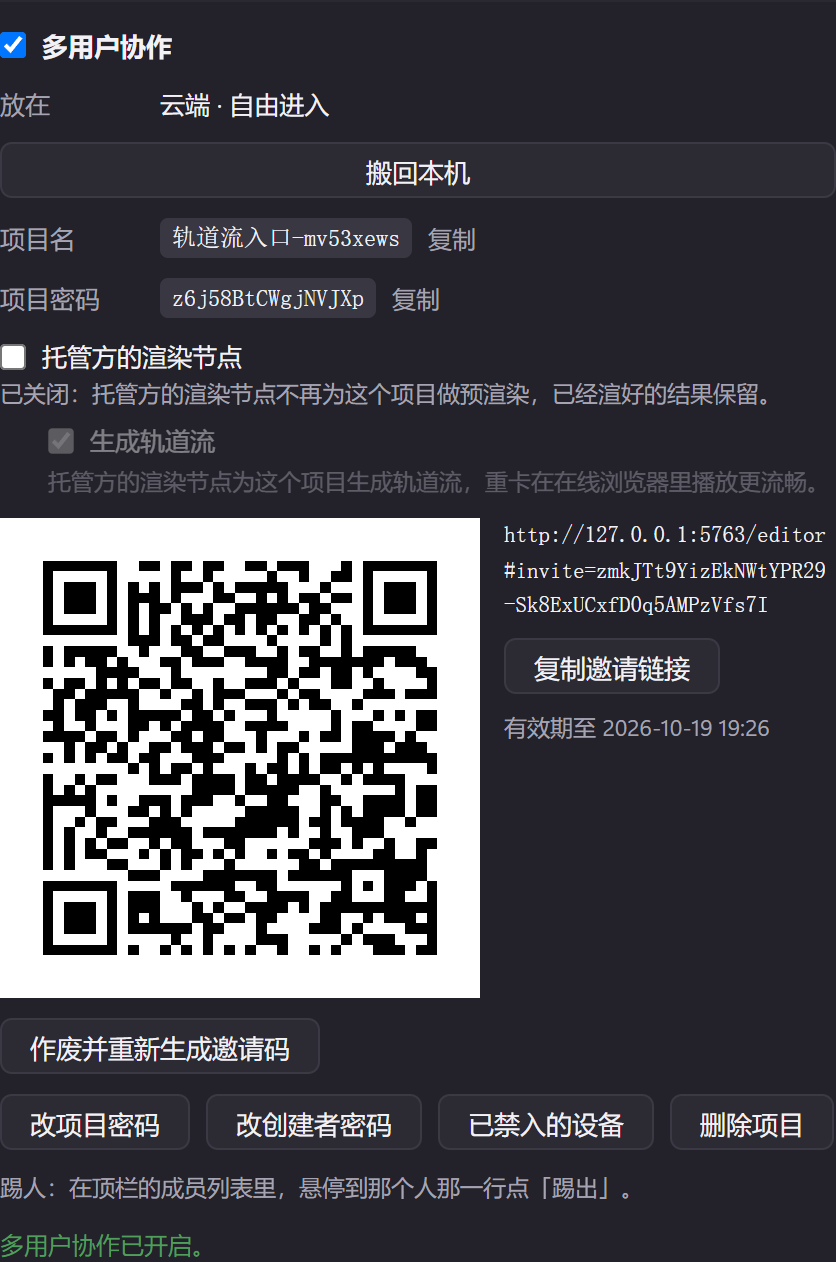
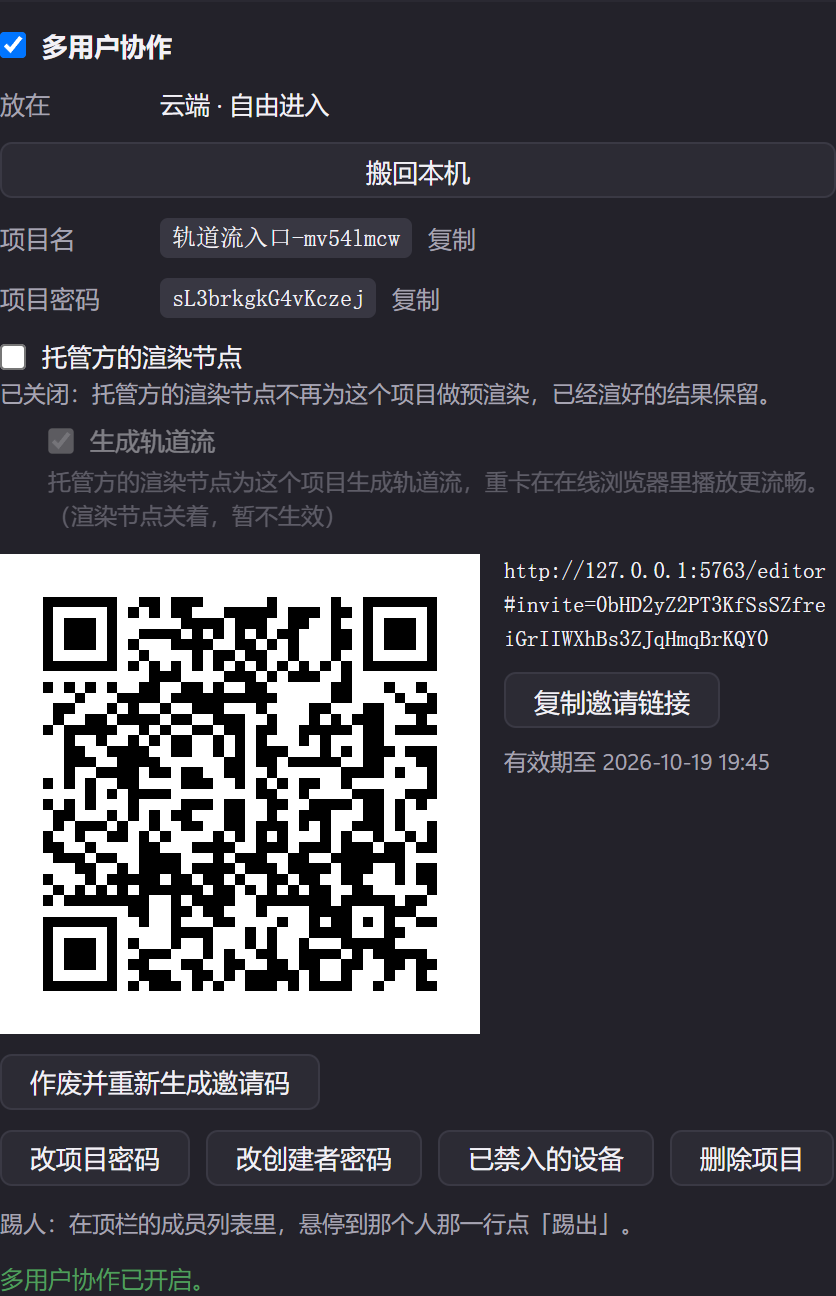
轨道流缺省改成关(用户 2026-10-12 定):文档服务只在显式 true 时算开,文案、单测、探针、契约、截图跟着改

diff --git a/src/editor/sync/hostedServices.ts b/src/editor/sync/hostedServices.ts
@@ -8,7 +8,7 @@
  *   `HOSTED_SERVICE_TEXT` 各加一项就多一行。
  *
  * - 渲染节点那一行下面缩进多一行子选项「生成轨道流」（契约 `hosted-render-contract.md` 第 3.1 节）：成员列表里 `hosted.render.streams`
- *   （布尔，文档服务报了才出现；旧托管端不报，这一行就不显示），记录里没有算开；渲染节点那一行关着时置灰、不可点。
+ *   （布尔，文档服务报了才出现；旧托管端不报，这一行就不显示），记录里没有算关（2026-10-12 用户定：在线浏览器暂停时不靠渲染节点也能看任意一帧，云端缺省不产轨道流，省服务器资源）；渲染节点那一行关着时置灰、不可点。
  *   子选项按「服务名 + 选项名」渲染，文案在 `HOSTED_OPTION_TEXT`。
  *
  * - 代成员进项目的服务连接（云端 Agent）不另起一行：归在那位成员的行里，`conns` 里那一项带 `service: 'agent'`，界面在这位成员下
@@ -24,7 +24,7 @@ export type HostedServiceName = "render" | "agent";
 export interface HostedServiceState {
   available: boolean;
   enabled: boolean;
-  /** 渲染节点的子选项「生成轨道流」：文档服务报了才有（旧托管端没有）；缺省开由文档服务算好再报 */
+  /** 渲染节点的子选项「生成轨道流」：文档服务报了才有（旧托管端没有）；缺省关由文档服务算好再报（记录里没有这一项算关，只有显式为 true 才算开） */
   streams?: boolean;
 }
 
@@ -81,7 +81,7 @@ export interface HostedOptionText {
 export const HOSTED_OPTION_TEXT: Record<string, HostedOptionText> = {
   "render.streams": {
     label: "生成轨道流",
-    hint: (enabled) => (enabled ? "托管方的渲染节点为这个项目生成轨道流，重卡在在线浏览器里播放更流畅。" : "已关闭：托管方的渲染节点只为这个项目生成快照，不生成轨道流；已经生成的保留。"),
+    hint: (enabled) => (enabled ? "托管方的渲染节点为这个项目生成轨道流，重卡在在线浏览器里播放更流畅。" : "没有打开：托管方的渲染节点只为这个项目生成快照。打开后还会生成轨道流，重卡在在线浏览器里播放更流畅，会多用云端的渲染时间。"),
     changed: (enabled) => (enabled ? "" : "创建者关闭了轨道流，托管方的渲染节点不再为这个项目生成轨道流。"),
     confirm: (enabled) => (enabled ? "打开后，托管方的渲染节点会为这个项目生成轨道流。" : "关闭后，托管方的渲染节点不再为这个项目生成轨道流，已经生成的保留。"),
   },

diff --git a/src/editor/sync/HostedServiceRows.tsx b/src/editor/sync/HostedServiceRows.tsx
@@ -61,6 +61,7 @@ export function HostedServiceRows({ where, hosted, creator, busy = false, onTogg
               </label>
               <div className="pc-sync-hint" data-pc={`collab-hosted-${o.service}-${o.option}-hint`}>
                 {hostedOptionText(o.service, o.option)?.hint(o.enabled)}
+                {o.parentOff ? "（渲染节点关着，暂不生效）" : ""}
                 {creator ? "" : "（只有创建者能改）"}
               </div>
             </div>

diff --git a/docs/plan/hosted-render-contract.md b/docs/plan/hosted-render-contract.md
@@ -222,7 +222,7 @@ node server/hosted-render/keygen.mjs --hosted-data <托管数据目录> --list
 
 背景：独立渲染主机缺省不产轨道流（`scripts/render-host.mjs` 要带 `--streams`），云端渲染服务以后要产流（本轮计划见 `docs/plan/render-refactor-task.md`）。用户要求先在界面增加入口。**这一节只管入口：记下这一项并通知成员；渲染服务认领任务时看不看它，不在这一节、也不在已实现的范围内。**
 
-- **存在哪**：项目记录 `hosted.render.streams`，布尔，**没有这一项算开**。同一个服务下可以有别的字段（`enabled`、`streams`），互不影响：`set-hosted-service` 只改 `enabled`、保留同服务下别的字段（原先是整条换成 `{ enabled }`，会冲掉子选项，已改）。有哪些子选项由 `service-identity.mjs` 的 `HOSTED_OPTIONS` 登记：`render: ['streams']`、`agent: []`。
+- **存在哪**：项目记录 `hosted.render.streams`，布尔，**没有这一项算关，只有显式为 `true` 才算开**〔用户 2026-10-12 看过截图后定：在线浏览器暂停时不靠渲染节点也能看任意一帧，云端缺省不产轨道流以省服务器资源；入口保留，创建者想要更流畅的播放时自己打开。这与服务本身的开关（没有算开）相反，`hostedOptionEnabled` 单独按「`=== true`」判〕。同一个服务下可以有别的字段（`enabled`、`streams`），互不影响：`set-hosted-service` 只改 `enabled`、保留同服务下别的字段（原先是整条换成 `{ enabled }`，会冲掉子选项，已改）。有哪些子选项由 `service-identity.mjs` 的 `HOSTED_OPTIONS` 登记：`render: ['streams']`、`agent: []`。
 - **谁能改**：创建者。新的创建者操作 `shared.admin { op: 'set-hosted-option', service: 'render', option: 'streams', enabled: boolean, proof: { nonce, m } }`；证明的用途串里 `op` 就是 `set-hosted-option`，证明与限速同其它创建者操作；成功回 `shared.admin.ok { op: 'set-hosted-option' }`；**不加代数、不断任何连接、不动服务手里的认领**。`service` 不是 `render` / `agent` 之一、登记表里没有这个服务、`option` 不是这个服务登记过的选项（含 `agent` 没有任何选项、非字符串、原型链上的名字）、`enabled` 不是布尔值，一律回 `error { reason: 'bad-message' }`，不落盘、不通知。渲染节点那一行（`enabled`）关着时服务端不另设限，照样能改 `streams`（界面把它置灰，不让点）。
 - **谁能看**：所有成员，从 `shared.members.list` 顶层的 `hosted.render.streams` 看：`hosted.render` 由 `{ available, enabled }` 变成 `{ available, enabled, streams }`；`hosted.agent` 不变。目录条目（`hosted.project` 推给渲染服务的）里用到同一个 `hostedStateOf`，同样带 `streams`，渲染服务本轮不读它。放本机的项目没有 `hosted` 字段，也没有这个操作（回 `bad-message`）。
 - **通知**：改完给本空间其余成员连接发 `shared.notice { event: 'hosted-option-changed', service, option, enabled }`（打开关闭都发）；不发给发起操作的那条连接，也不发给服务自己的连接；并刷新成员列表。界面只在 `enabled: false` 时给别的成员弹一条提示，打开时不提示（与 `hosted-service-changed` 同一个规矩）。
@@ -230,8 +230,8 @@ node server/hosted-render/keygen.mjs --hosted-data <托管数据目录> --list
   - 旧页面连新文档服务：多出来的 `streams` 字段旧页面不读；新通知是新的事件名 `hosted-option-changed`，旧页面按事件名分支，不认识就忽略。旧通知 `hosted-service-changed` 的形状不变。
   - 新页面连旧文档服务：成员列表里没有 `streams`，「生成轨道流」这一行不显示，渲染节点那一行不受影响；旧文档服务收不到 `set-hosted-option`（界面不会发）。
   - 账号项目（中心账号那条路，`/hosted/shared/account/admin`）只有云端 Agent 一项开关，没有渲染节点，也就没有这一行；页面这边对账号项目调用 `setHostedOption` 直接回 `forbidden`。
-- **界面**：渲染节点那一行下面缩进多一行勾选「生成轨道流」。出现条件：项目放云端、`render.available`、文档服务报了 `streams`（旧托管端不报就不出现）。渲染节点那一行关着时这一行置灰、不可点（仍显示它自己的勾选状态）。创建者能改，改之前走和别的行一样的创建者确认；其他成员只读，显示「（只有创建者能改）」。文案是任务书给的初稿，等用户看过截图再定（`hostedServices.ts` 的 `HOSTED_OPTION_TEXT`）。
-- **以后渲染服务那一半怎么接**：目录条目里已经带 `hosted.render.streams`，渲染服务认领任务时读目录条目即可，不用再问文档服务；是否要在 `hosted.project` 的顶层再带一个便于过滤的字段，等接的时候再定。
+- **界面**：渲染节点那一行下面缩进多一行勾选「生成轨道流」。出现条件：项目放云端、`render.available`、文档服务报了 `streams`（旧托管端不报就不出现）。渲染节点那一行关着时这一行置灰、不可点（仍显示它自己的勾选状态）。创建者能改，改之前走和别的行一样的创建者确认；其他成员只读，显示「（只有创建者能改）」。缺省是关（勾选框不勾），关着的说明写明代价：「没有打开：托管方的渲染节点只为这个项目生成快照。打开后还会生成轨道流，重卡在在线浏览器里播放更流畅，会多用云端的渲染时间。」；渲染节点那一行关着、这一行置灰时，说明后面加「（渲染节点关着，暂不生效）」。文案在 `hostedServices.ts` 的 `HOSTED_OPTION_TEXT`。
+- **以后渲染服务那一半怎么接**：目录条目里已经带 `hosted.render.streams`（缺省 `false`），渲染服务认领任务时读目录条目即可，不用再问文档服务；是否要在 `hosted.project` 的顶层再带一个便于过滤的字段，等接的时候再定。
 
 ---
 

diff --git a/docs/reports/AGENT-hosted-stream-entry.md b/docs/reports/AGENT-hosted-stream-entry.md
@@ -4,6 +4,8 @@
 
 ## 结论
 
+> 2026-10-12 用户看过截图后改定：「生成轨道流」缺省是关。下文「缺省开」「缺省勾上」「on/off 截图」等说法都是第一版，以文末「缺省改成关」一节为准。
+
 入口做完：项目设置「多用户协作」里，渲染节点那一行下面缩进多一行「生成轨道流」；文档服务把这一项记在 `hosted.render.streams` 并通知成员。**渲染服务认领任务时看不看它，这次没做**（任务书明确不在范围内）。类型检查零错误，`npm test` 零失败，新探针 22 项全过且 `fails: []`，原有界面探针 19 项全过，三张截图在。
 
 ## 范围
@@ -76,3 +78,34 @@
 ## 提交
 
 见最后一条消息里的哈希列表。
+
+## 缺省改成关
+
+用户理由：在线浏览器暂停时不靠渲染节点也能看任意一帧，所以云端缺省不产轨道流，省服务器资源；入口保留，创建者想要更流畅的播放时自己打开。
+
+### 改了什么
+
+- 文档服务：`hostedOptionEnabled`（`server/auth/service-identity.mjs`）改成「记录里显式为 `true` 才算开」，没有这一项、不是布尔值都算关；`hostedStateOf` 报出来的 `streams` 跟着变（成员列表顶层与目录条目都是缺省 `false`）。`set-hosted-option` 的校验、通知不变。服务本身的开关（`enabled`）仍是「没有算开」，两者规则相反，代码注释里写明。
+- 页面：解析与显示逻辑没变（值由文档服务给）。文案：关着的说明改为「没有打开：托管方的渲染节点只为这个项目生成快照。打开后还会生成轨道流，重卡在在线浏览器里播放更流畅，会多用云端的渲染时间。」；开着的说明、两句确认弹窗、关闭时给别的成员的提示不变（仍然只在关闭时提示）；渲染节点那一行关着、这一行置灰时，说明后面加「（渲染节点关着，暂不生效）」（`HostedServiceRows.tsx`）。
+- 单测：`hosted-stream-option.test.mjs` 里缺省断言翻成关，操作顺序改成「先打开再关闭」，新增「渲染节点开着不等于轨道流开着」「非布尔值不算开」「显式关写 false」；`hostedServices.test.mjs` 的文案断言换成新说法，新增置灰时后缀与「成员 + 关着 + 置灰」的组合断言；四个既有单测里对 `hosted` 形状的断言 `streams: true` 改成 `streams: false`（`cloud-agent-auth`、`hosted-render-access`、`hosted-render-actsfor`、`hosted-render-identity`，共 12 处）。
+- 探针 `hosted-stream-entry-probe.mjs`：场景改成缺省关：S1 缺省没勾、说明带代价；S2 成员只读；S3 勾上（打开时成员无提示）；S4 再取消（成员收到提示）；S5 再勾上后关渲染节点，置灰且说明带「暂不生效」；S6 渲染节点再开，仍是勾着；S7 无页面错误。
+- 契约 3.1 节：存放规则、界面段落、以后接渲染服务那一段都改成缺省关，并记了用户的理由。
+- 三张截图重拍，文件名不变：`off.png` 是缺省状态（没勾，带代价的说明），`on.png` 是创建者勾上并确认以后，`disabled.png` 是渲染节点关着、这一行置灰（勾着，说明后面带「（渲染节点关着，暂不生效）」）。
+
+### 验证（命令都在前台跑完）
+
+| 项 | 命令 | 结果 |
+|---|---|---|
+| 类型检查 | `npx tsc -b --force` | 退出码 0，零错误 |
+| 全量测试 | `npm test`（带两个环境变量） | 退出码 0；5523 个用例，通过 5519，失败 0，跳过 4（非本次引入）；末行「npm test 最终结果：零失败」 |
+| 受影响的服务端单测 | `node --test` 跑 hosted-stream-option、hosted-render-access、hosted-render-actsfor、hosted-render-identity、cloud-agent-auth | 55 个全过 |
+| 页面单测 | `node --test src/editor/sync/hostedServices.test.mjs` | 22 个全过 |
+| 新探针 | `node scripts/probes/hosted-stream-entry-probe.mjs --out docs/reports/assets/hosted-stream-entry` | 退出码 0；`{"summary":{"ok":true,"total":20,"fails":[]}}` |
+| 原有界面探针 | `node scripts/probes/hosted-render-ui-probe.mjs --out <临时目录> --desktop-port 5760 --doc-port 5763 --asset-port 5764` | 退出码 0；`{"summary":{"ok":true,"total":19,"failed":[]}}` |
+
+本轮没有失败重跑：除了开发中第一次跑单测前我漏改的 `hosted-render-access` 里一处 `pushed.hosted.render` 断言（改完即过），验证命令都是第一次就过。
+
+### 对计划的更正建议
+
+- 渲染服务那一半以后接时，「缺省不产」已经由数据给出：目录条目里 `hosted.render.streams` 缺省 `false`，渲染服务只在 `enabled && streams` 时产流。已有项目记录里没有这一项，也按关处理，不需要迁移。
+- 旧托管端（不报 `streams`）上这一行不显示，等价于「用户没法打开」；这与缺省关一致，不需要处理。
